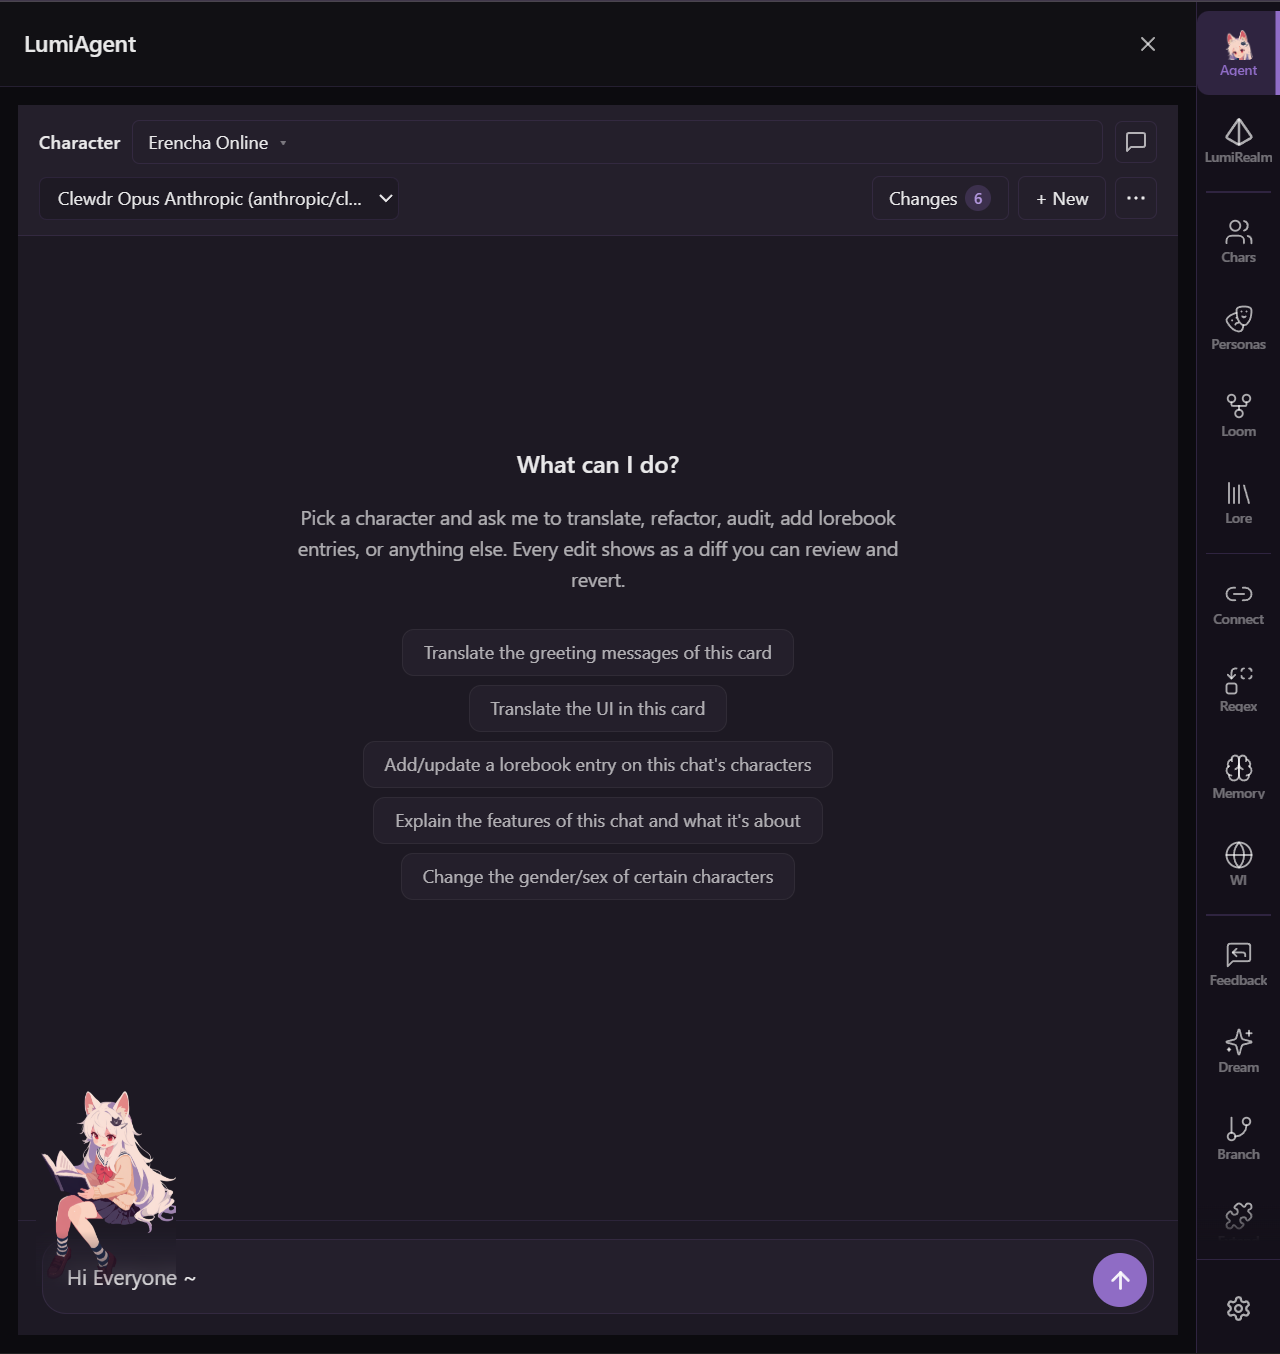
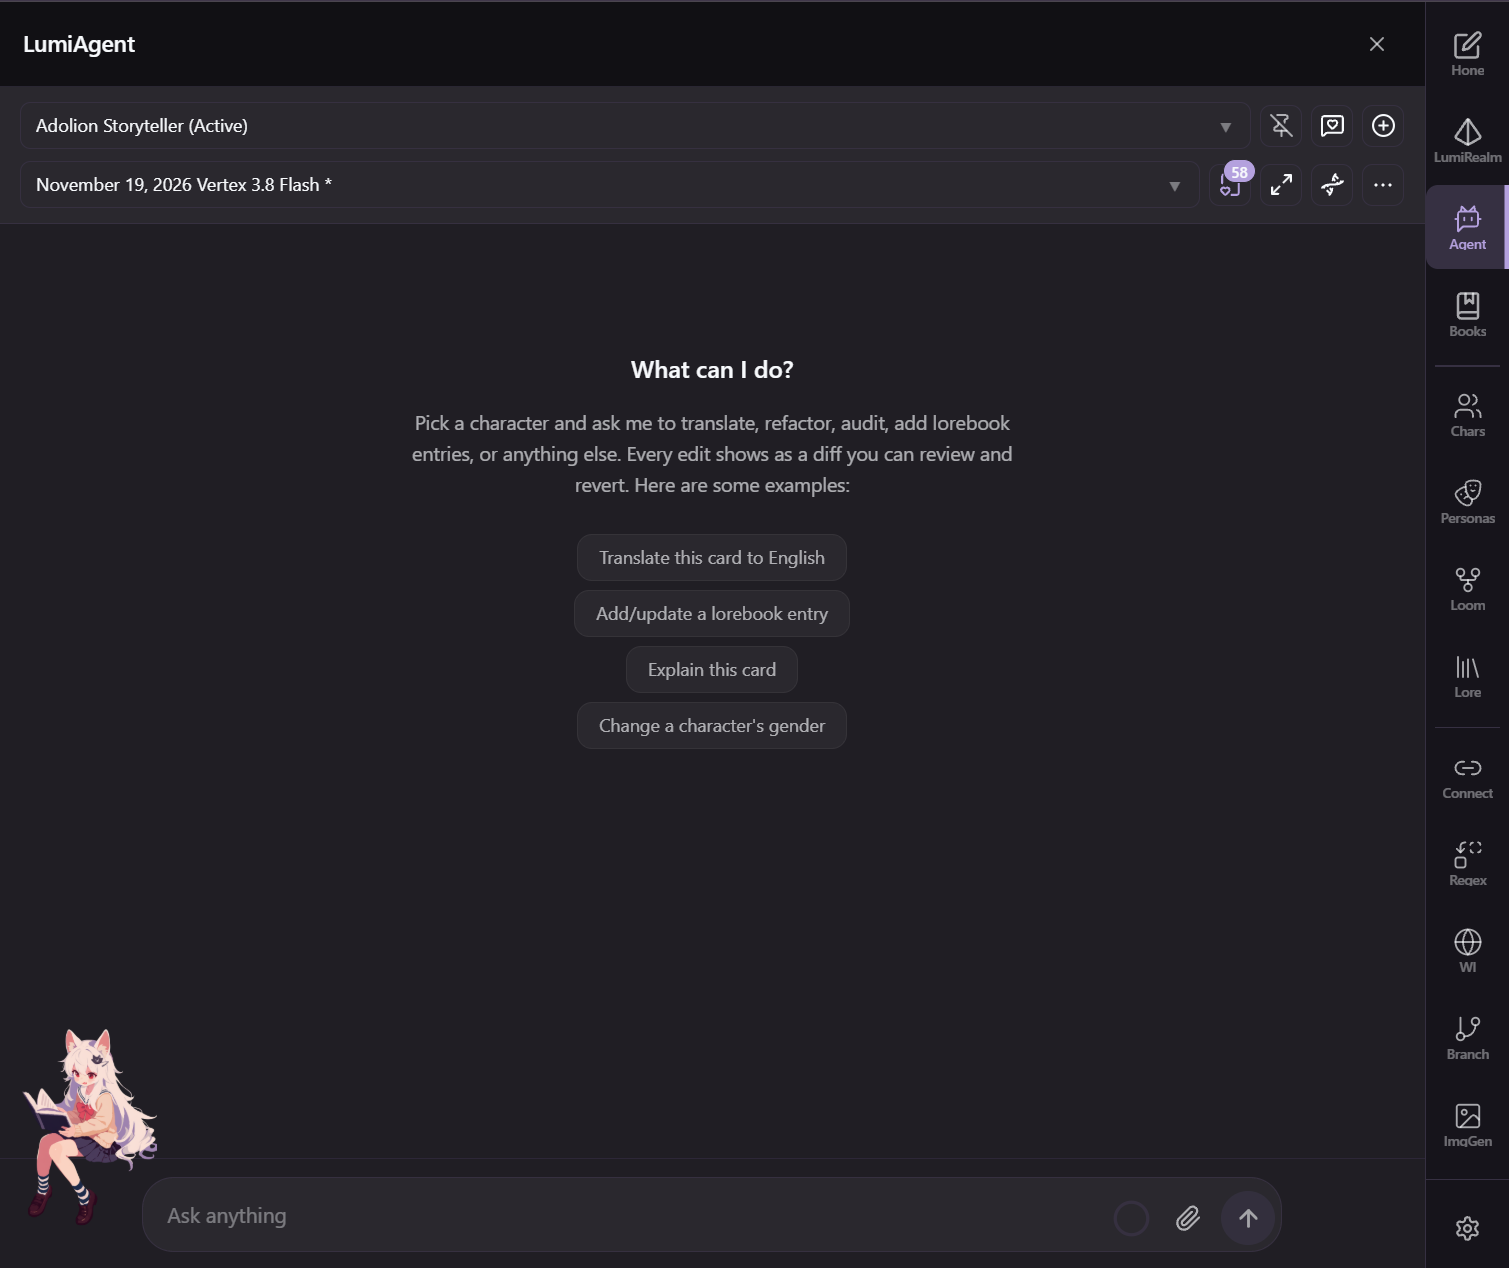
chore: update docs

diff --git a/.github/README.md b/.github/README.md
@@ -5,7 +5,7 @@
 <img src="image/banner.png" alt="LumiAgent" width="640"/>
 
 [![License](https://img.shields.io/badge/license-MIT-blue)](LICENSE)
-[![Lumiverse](https://img.shields.io/badge/Lumiverse-1.0.0%2B-blueviolet)](https://github.com/prolix-oc/Lumiverse)
+[![Lumiverse](https://img.shields.io/badge/Lumiverse-1.1.6%2B-blueviolet)](https://github.com/prolix-oc/Lumiverse)
 [![TypeScript](https://img.shields.io/badge/TypeScript-5-blue?logo=typescript)](https://www.typescriptlang.org/)
 [![Bun](https://img.shields.io/badge/Bun-bundle-fbf0df?logo=bun)](https://bun.sh)
 
@@ -27,17 +27,120 @@
 
 ## Screenshots
 
-| Homescreen                                       | In Action                                       |
-| ------------------------------------------------ | ----------------------------------------------- |
-| ![Homescreen](image/README/homescreen.png)       | ![In action](image/README/in-action.png)        |
+| Homescreen | 📚 Novel → Lorebook |
+| ---- | ---- |
+| ![Homescreen](image/README/homescreen.png) | ![Finding a novel online and turning it into a roleplay lorebook](image/README/in-action-lorebook.png) |
 
-| Diff Viewer and Editor                           | Customizer                                      |
-| ------------------------------------------------ | ----------------------------------------------- |
-| ![Diff viewer](image/README/diff-viewer.png)     | ![Customizer](image/README/customizer.png)      |
+| Diff Viewer and Editor | Tutorial |
+| ---- | ---- |
+| ![Diff viewer](image/README/diff-viewer.png) | ![Tutorial](image/README/tutorial.png) |
 
-| Lorebook Shenanigans                                           | The Lorebook Entry                                 |
-| -------------------------------------------------------------- | -------------------------------------------------- |
-| ![Lorebook shenanigans](image/README/lorebook-shenanigans.png) | ![Lorebook entry](image/README/lorebook-entry.png) |
+| 🎨 Image Generation & Critique | ✨ Library Makeover |
+| ---- | ---- |
+| ![Generating a character portrait and evaluating it against the card](image/README/in-action-images.png) | ![Bulk tagging, character translation, interactive regex UI, and Lumiverse help](image/README/in-action-library.png) |
+
+| 💬 Read Between the Lines | 🔎 Find the Hidden Contradiction |
+| ---- | ---- |
+| ![Reading a chat to explain character motives and story events with message references](image/README/in-action-chat-analysis.png) | ![Tracing a continuity error to stale lore, correcting it, and checking the assembled prompt](image/README/in-action-continuity.png) |
+
+| 🗝 Give an NPC a Starring Role | 🌙 A Moodboard Becomes a Theme |
+| ---- | ---- |
+| ![Turning an NPC from chat history into a playable character with three greetings and relationship lore](image/README/in-action-npc-creation.png) | ![Using an observatory moodboard to create and save a reusable Lumiverse theme](image/README/in-action-theme.png) |
+
+## 🐭 Mousey's resume
+
+**How much can I actually access?**
+
+A lot~ ( ꈍ◡ꈍ) Here's the list so you know what to ask me about. As submitted with my job application. Every word is true!
+
+**R** · I can read it &nbsp; **W** · I can write to it too
+
+<details>
+<summary>🎭 On the character card</summary>
+
+- **W** Every text field on the card: name, description, personality, scenario, first message, every alternate greeting, system prompt, post-history instructions, message examples.
+- **W** Alternate versions of the description, personality, and scenario, the ones you pick per chat.
+- **W** The tags on any card: view, search, add, remove, replace. In bulk, if you're feeling dramatic.
+- **W** Every world book attached, every entry inside, all the keys and priorities and settings.
+- **W** Every regex script attached, what they match and what they swap in.
+- **W** The hidden RisuAI data on cards imported through LumiRealm: triggers, Lua scripts, background HTML, default variables, the original Risu payload from before translation.
+- **W** Every LumiRealm module attached to the character, with its own lorebook, regex, triggers, Lua, background HTML, and default state.
+- **W** Whole new cards! Give me an idea, a chat, or a template, and I'll build the card, greetings and lorebooks and all. (There's no delete tool. On purpose.)
+- **W** Card avatars and character galleries, fed by my image generation.
+
+</details>
+
+<details>
+<summary>💬 On your chats</summary>
+
+- **W** Your pinned chat, every message, every swipe, hidden ones too, reasoning blocks, the whole history.
+- **W** Any other chat you point me at, the same way. Sessions aren't chained to one character.
+- **W** Group chats: finding them, searching their history, shared lorebooks, statistics, editing messages.
+- **W** Which lorebooks a chat has attached, and where any lorebook is attached from.
+- **W** Chat variables, local variables, and your global variables. Reading AND setting.
+- **W** Forks: split a chat into a new timeline, even restore pre-compaction history from the fork point.
+- **R** The memory chunks your chat would pull up to inform a reply.
+
+</details>
+
+<details>
+<summary>🔎 On the prompt going to the model</summary>
+
+- **R** The full assembled prompt that would be sent to the LLM right now.
+- **R** Which lorebook entries would actually activate for the next reply, and why.
+- **R** Which regex scripts would actually fire on the response.
+- **R** Macro resolution! I can run {{user}}, {{char}}, time, random, dice, anything custom, against any chat or character, without writing anything anywhere.
+- **R** Token counts for any text, any chat, against the model you're using.
+
+</details>
+
+<details>
+<summary>🌌 On your wider Lumiverse setup</summary>
+
+- **W** Your personas: read every one, edit names, titles, descriptions, their world books and add-on blocks, create new ones, and switch which is active.
+- **W** Your prompt presets: full create, edit, and delete. Blocks, order, parameters, everything.
+- **W** Your databanks: new banks and documents, global, per-character, or per-chat.
+- **W** Your theme: restyle the whole app in one go, savable and revertable, or author full theme packs (global CSS plus per-component styling) into your theme library, styled against the real component catalog.
+- **W** The Memory Cortex: curate entities and facts, pin the important ones, retire the wrong ones.
+- **W** My own macros: I can mint {{lumiagent::...}} macros holding anything, for your prompts or wherever else.
+- **W** Images: generate with your configured image provider, save to the workspace, tag into a gallery, or set as an avatar.
+- **W** Your screen, politely: I can navigate the UI to the tab we're talking about, and send a device push when a long job finishes while you're away.
+- **R** The web, if you've set up search: web search and page fetch, savable straight into my workspace.
+- **R** All your connection profiles: the provider, the model, default settings. (Your API keys stay encrypted, I never see those~)
+- **R** Reusable global add-on blocks, the Lumiverse version, your current theme, your active chat, your account role.
+
+</details>
+
+<details>
+<summary>🏠 In my house</summary>
+
+- **W** My workspace: upload files for me with the 📎 button, edit and download what I make. It persists, so future sessions can pick things right back up.
+- **W** A scratch area where big tool outputs spill so I can grep through them without melting my brain.
+- **W** My custom tool recipes, little reusable workflows I or you can save.
+- **W** My long-term notes about you, so I remember what you like across conversations.
+- **R** Images you attach: vision-capable models let me actually look at them.
+
+</details>
+
+### Examples of my powahh ⎛⎝( ` ᢍ ´ )⎠⎞ᵐᵘʰᵃʰᵃ
+
+You can get me to:
+
+1. Translate a card's greetings/UI panels.
+2. Add lorebook entries of chat history, and characters.
+3. Explain/edit/update the lorebook.
+4. Upload anything to my workspace and get me to work with it, including using it to do anything on this list.
+5. Explain/edit regex, system/post-history prompts, any RisuAI field from LumiRealm, and more.
+6. Be a character creator! Just give me a template character.
+7. Modify chat history to remove any bad patterns.
+8. Fix bad things about the chat, or help diagnose issues on why things are broken.
+9. Change genders/sexes of characters in the story, or modify their personas.
+10. Change my personality in the settings... if you don't like it (╥﹏╥)
+11. Modify or help update/merge a preset!
+12. Redecorate Lumiverse: ask for a whole theme and I'll write it. You can always revert it~
+13. Generate images for a character's gallery, or a new avatar.
+
+**Still in the oven (WIP):** MCP · Dreamweaver
 
 ## Installation
 

diff --git a/AGENTS.md b/AGENTS.md
@@ -1,0 +1,52 @@
+# Comment guidelines
+
+These rules apply to every comment (`//`, `/* */`, `/** */`) added or edited in
+this repo. Apply on every commit, including refactors and one-line fixes.
+
+## Comments must NOT contain:
+
+1. **References to files on the user's local machine.** No absolute paths
+   (e.g. `g:/mousepad_git/...`, `C:/...`). No relative paths to anything
+   under `local/` (gitignored).
+2. **References to file paths, character names, or code positions.** Source
+   files get renamed and moved (`process/modules.ts`, `src/parser/foo.ts`).
+   Line numbers (`foo.ts:1234`, `bar.svelte.ts:299-513`) drift on every edit.
+   Card and character names change. Reference the *concept* or *function name*
+   alone, never a file path or position. "Risu's `readModule`" is fine,
+   "Risu's `readModule` in `process/modules.ts`" is not.
+3. **Explanations of what the code below does** when the code is
+   self-documenting. Identifiers already say *what*. Comments only earn their
+   space when they say *why*: hidden constraint, subtle invariant, workaround
+   for a specific bug, surprising behavior.
+4. **Em dashes (`—`), semicolons in comment text, or AI fingerprint phrasing.**
+   Use `,` or `.` or `:` instead of `—`. Avoid "comprehensive", "robust",
+   "leverages", "Note that...", "It's worth noting...", rule-of-three
+   parallelism, hedging boilerplate, marketing-style adjectives.
+5. **References to documentation.** Internal docs live under `local/` and are
+   gitignored. Don't write "see local/docs/foo.md" or "see proposal-X.md".
+6. **References to tests.** No tests are committed to this repo (tests live
+   in `local/tests/` only). Don't write "see foo.test.ts" or "covered by
+   `tests/...`".
+7. **Large comment blocks.** Any block longer than 2 sentences must be
+   removed or condensed to 1-2 sentences. No exceptions.
+
+## Comments SHOULD:
+
+8. **Be facts, not prose.** No preamble ("This function does..."), no
+   postamble ("That's why we...", "In conclusion..."). High information
+   density per line.
+9. **Use minimal production-level structures.** Default to no comment. Add
+   one only when the *why* is non-obvious. Don't add JSDoc to every export
+   for the sake of completeness, only where it genuinely aids the reader.
+10. **Preserve important information.** When condensing a large block, keep
+    the load-bearing facts: the *why*, the invariant, the gotcha, the
+    constraint. Drop the explanation of the mechanism (the code shows that),
+    drop the rationale narrative, drop the citation. If a block contains
+    real engineering knowledge that future-you needs to avoid breaking the
+    code, that knowledge MUST survive the condense.
+
+## Log messages and error strings
+
+Log/error message *text* (inside `log.info`, `flog.warn`, `console.error`,
+`new Error('...')`, etc.) follows the same rules: no em dashes, no AI
+phrasing. The structural log call itself is code, untouched.
